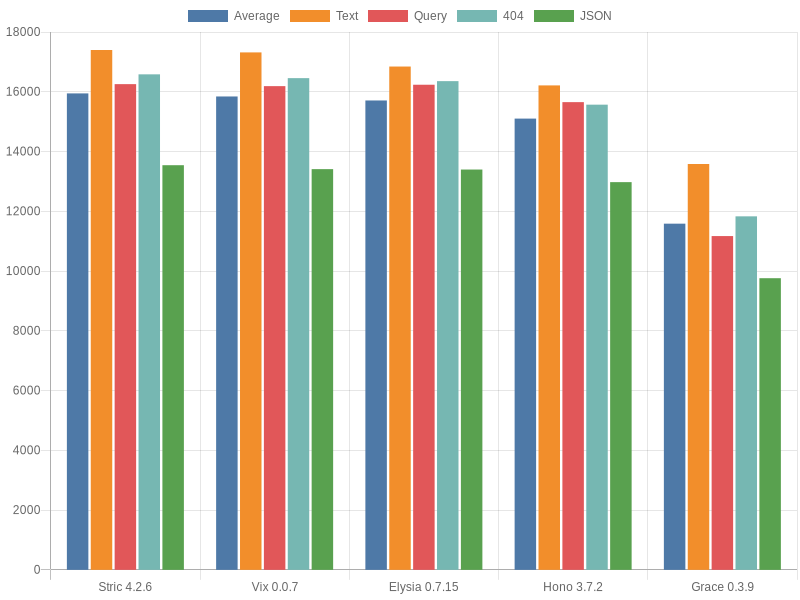
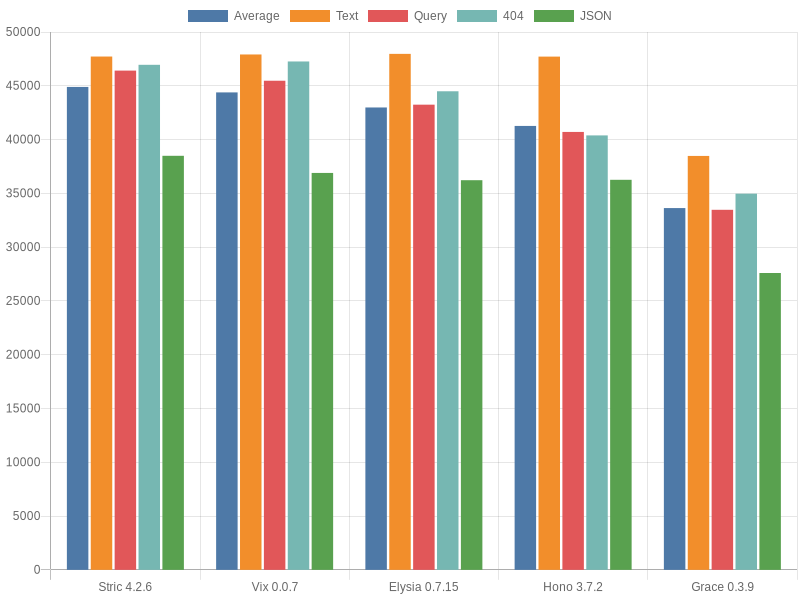
Stric is faster

diff --git a/config.ts b/config.ts
@@ -59,7 +59,7 @@ export default {
     ],
     command: {
         connections: 500,
-        duration: '15s',
+        duration: '20s',
         fasthttp: true,
         timeout: '10s'
     },

diff --git a/results/index.md b/results/index.md
@@ -1,6 +1,6 @@
 Bun: 1.0.3
 
-Tested at: 19:59, September 30th, 2023
+Tested at: 22:22, September 30th, 2023
 
 ## OS Details
 - Cores: 8
@@ -11,7 +11,7 @@ Tested at: 19:59, September 30th, 2023
 ## Tests
 ### GET `/`
 Should return `Hi` as a response.
-### GET `/id/63?name=2g9`
+### GET `/id/72?name=yEp`
 Should return the `id` parameter value and the query value, for example `1 a` when the request path is `/id/1?name=a`.
 ### GET `/api/js`
 Should return a response with `404` status code.
@@ -19,15 +19,15 @@ Should return a response with `404` status code.
 Return the request body with `Content-Type` set to `application/json`.
 ### Info
 - Connections: 500
-- Duration: 15s
+- Duration: 20s
 - Using `fasthttp`: `true`
 - Results are measured in requests per second.
 
 ## Results
-| Name | Average | GET `/` | GET `/id/1?name=PfR` | GET `/api/js` | POST `/api/json` |
+| Name | Average | GET `/` | GET `/id/62?name=Tdl` | GET `/api/js` | POST `/api/json` |
 |  :---: | :---: | :---: | :---: | :---: | :---: |
-| [Stric 4.2.6](/results/main/Stric) | 15944.23 | 17397.70 | 16254.42 | 16582.80 | 13541.99 |
-| [Vix 0.0.7](/results/main/Vix) | 15842.73 | 17316.34 | 16187.86 | 16456.84 | 13409.90 |
-| [Elysia 0.7.15](/results/main/Elysia) | 15707.77 | 16844.33 | 16234.38 | 16355.88 | 13396.50 |
-| [Hono 3.7.2](/results/main/Hono) | 15102.45 | 16213.67 | 15652.62 | 15567.61 | 12975.91 |
-| [Grace 0.3.9](/results/main/Grace) | 11586.06 | 13581.80 | 11169.75 | 11831.60 | 9761.10 |
+| [Stric 4.2.6](/results/main/Stric) | 44891.73 | 47716.99 | 46409.79 | 46951.22 | 38488.91 |
+| [Vix 0.0.7](/results/main/Vix) | 44386.82 | 47913.26 | 45471.55 | 47261.93 | 36900.53 |
+| [Elysia 0.7.15](/results/main/Elysia) | 42981.74 | 47969.01 | 43245.86 | 44488.43 | 36223.65 |
+| [Hono 3.7.2](/results/main/Hono) | 41268.64 | 47713.41 | 40710.94 | 40390.58 | 36259.61 |
+| [Grace 0.3.9](/results/main/Grace) | 33630.15 | 38477.66 | 33473.91 | 34971.57 | 27597.47 |

diff --git a/README.md b/README.md
@@ -47,10 +47,10 @@ See [configuration file](/config.ts) and the [type declarations](/lib/types.ts).
 ### Table 
 
 
-| Name | Average | GET `/` | GET `/id/1?name=PfR` | GET `/api/js` | POST `/api/json` |
+| Name | Average | GET `/` | GET `/id/62?name=Tdl` | GET `/api/js` | POST `/api/json` |
 |  :---: | :---: | :---: | :---: | :---: | :---: |
-| [Stric 4.2.6](/results/main/Stric) | 15944.23 | 17397.70 | 16254.42 | 16582.80 | 13541.99 |
-| [Vix 0.0.7](/results/main/Vix) | 15842.73 | 17316.34 | 16187.86 | 16456.84 | 13409.90 |
-| [Elysia 0.7.15](/results/main/Elysia) | 15707.77 | 16844.33 | 16234.38 | 16355.88 | 13396.50 |
-| [Hono 3.7.2](/results/main/Hono) | 15102.45 | 16213.67 | 15652.62 | 15567.61 | 12975.91 |
-| [Grace 0.3.9](/results/main/Grace) | 11586.06 | 13581.80 | 11169.75 | 11831.60 | 9761.10 |
+| [Stric 4.2.6](/results/main/Stric) | 44891.73 | 47716.99 | 46409.79 | 46951.22 | 38488.91 |
+| [Vix 0.0.7](/results/main/Vix) | 44386.82 | 47913.26 | 45471.55 | 47261.93 | 36900.53 |
+| [Elysia 0.7.15](/results/main/Elysia) | 42981.74 | 47969.01 | 43245.86 | 44488.43 | 36223.65 |
+| [Hono 3.7.2](/results/main/Hono) | 41268.64 | 47713.41 | 40710.94 | 40390.58 | 36259.61 |
+| [Grace 0.3.9](/results/main/Grace) | 33630.15 | 38477.66 | 33473.91 | 34971.57 | 27597.47 |
